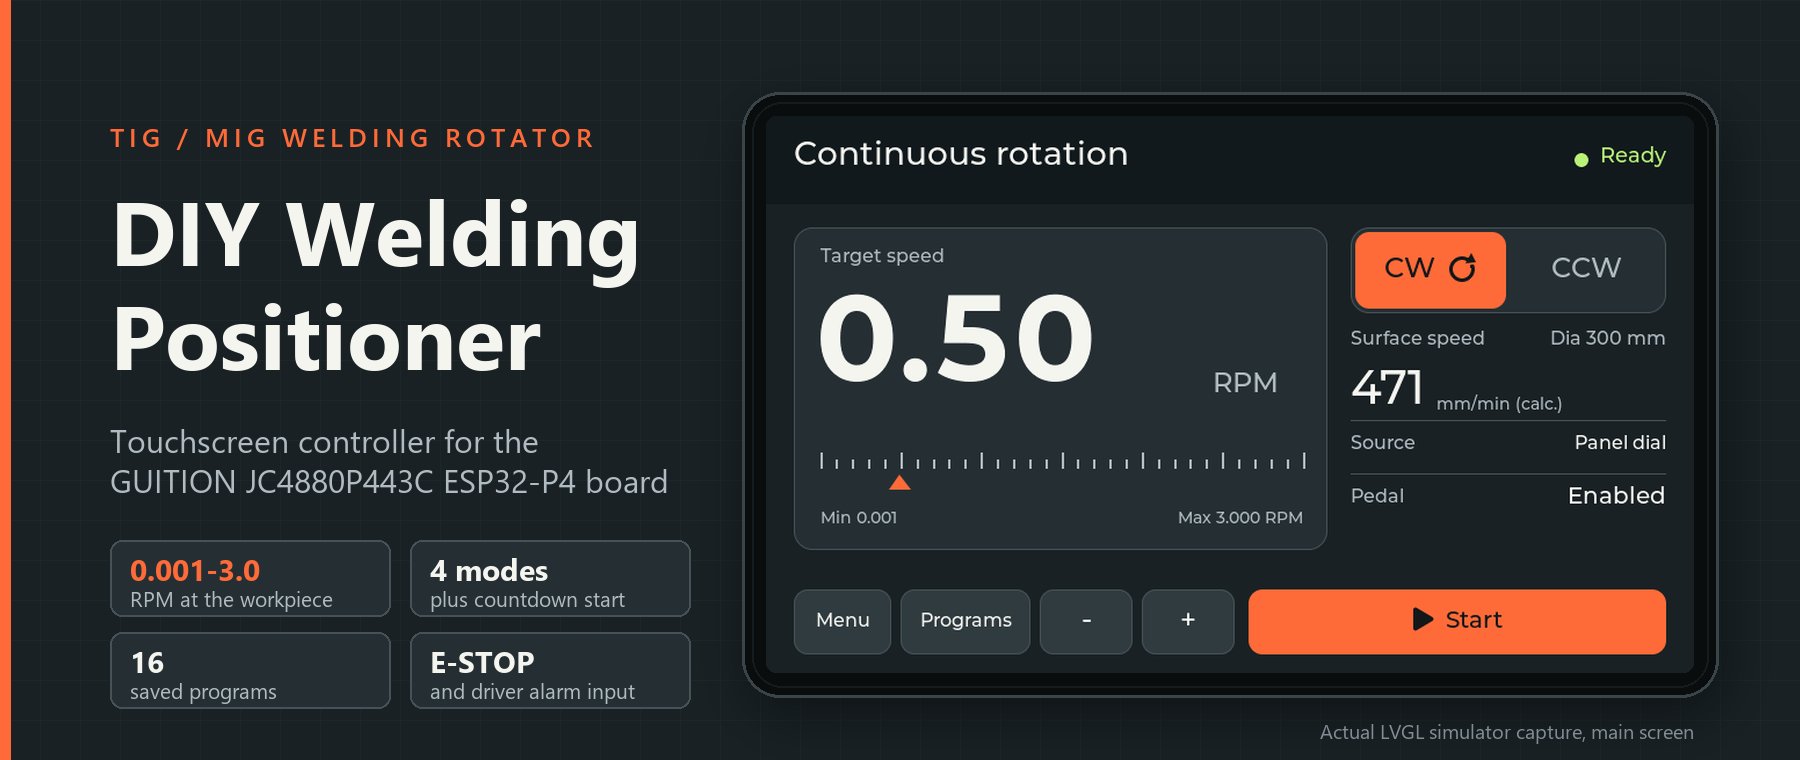
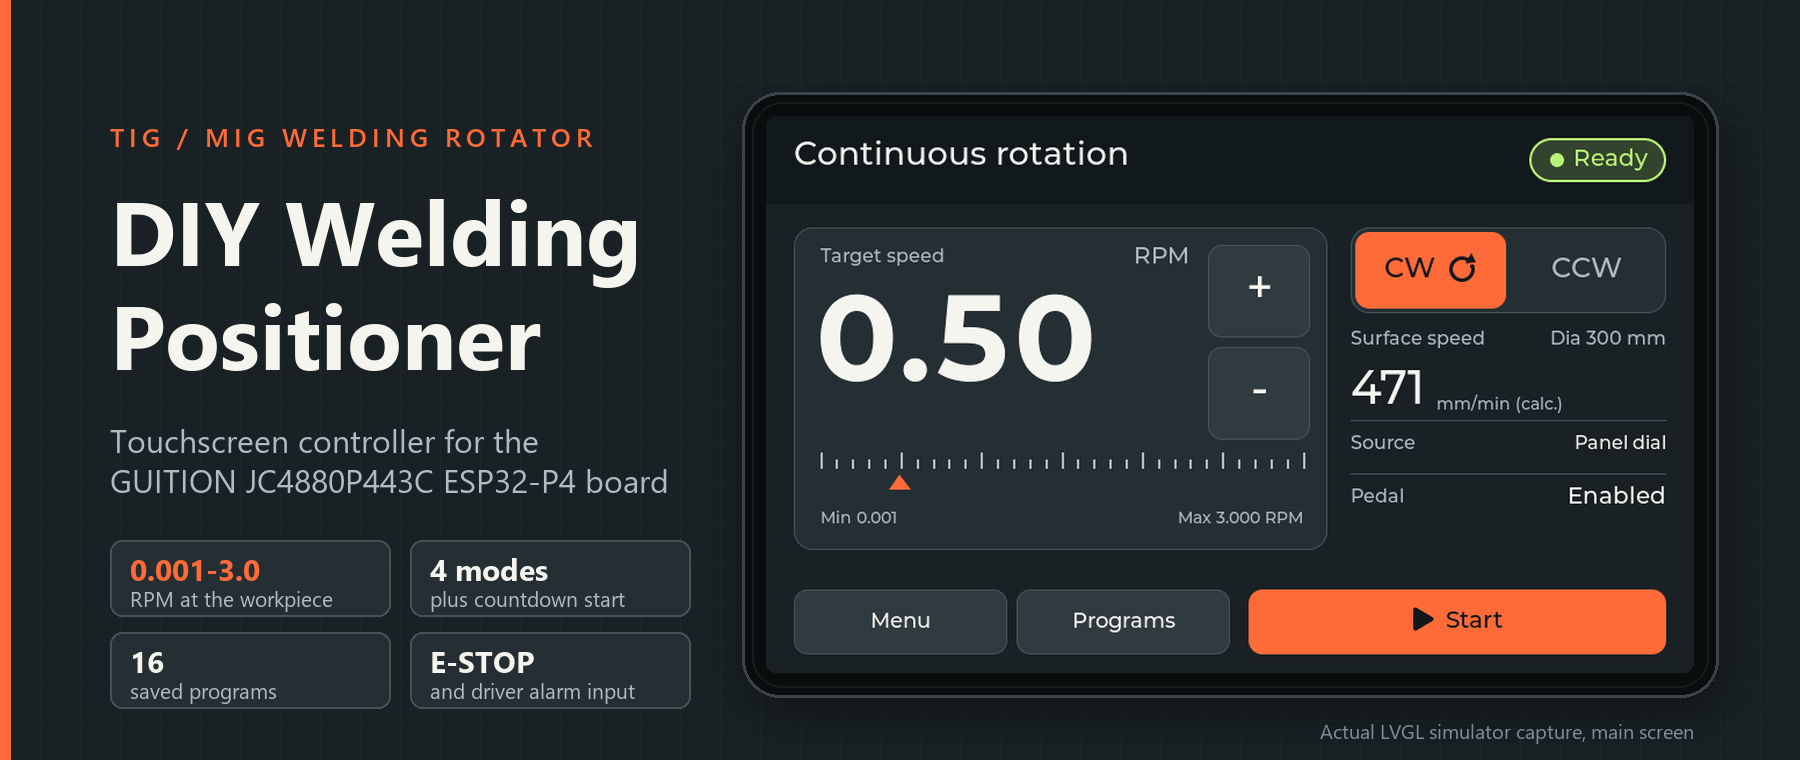
docs: update the README, hero image, roadmap and wiki for the unreleased source
- README: say that the screenshots show source ahead of v2.3.1, add
  "What changed since v2.3.1" with the fault screen and screen saver
  captures, note what the owner checked on the device on 2026-11-10,
  and how to build the unreleased source on Windows.
- Hero image: the embedded main-screen capture is the current one.
- Social preview: the PNG was a pre-V5 concept with wrong hardware
  facts (TB6600, 0.01-1.0 RPM, 199.5:1). It is rebuilt from the hero.
  The SVG facts are corrected.
- Roadmap: an Unreleased section with done and open items.
- Wiki home and getting started: source ahead of the release, fault
  screen wording, Save in Display settings.

diff --git a/README.md b/README.md
@@ -39,13 +39,15 @@ Touchscreen controller for a single-axis TIG/MIG welding rotator, built for the 
 > - **HF-start TIG:** put the controller, driver and motor PSU in the same grounded metal enclosure. See [TIG HF](#tig-hf).
 
 > [!NOTE]
-> **Tested by the owner.** The owner reported on 2026-11-04 that everything works on the assembled v2.3.0 machine, including TIG HF. The owner reported the v2.3.1 build working on the same machine the same day. Stop time is unmeasured. [Checks to run on your own build](docs/releases/v2.3.1.md#validation-and-hardware-status)
+> **Tested by the owner.** The owner reported on 2026-11-04 that everything works on the assembled v2.3.0 machine, including TIG HF. The owner reported the v2.3.1 build working on the same machine the same day. Stop time is unmeasured.
+>
+> **Source is ahead of v2.3.1.** The screenshots below show the current source, which has reworked screens and fixes that are not released yet. See [What changed since v2.3.1](#what-changed-since-v231). The downloads are still v2.3.1. [Checks to run on your own build](docs/releases/v2.3.1.md#validation-and-hardware-status)
 
 ## What it does
 
 <table>
 <tr>
-<td width="33%" valign="top"><img src="docs/images/ui_runtime_v5/01_MAIN.png" alt="Continuous screen"><br><b>Continuous</b><br><sub>Set speed with the pot, pedal or -/+. One Start/Stop button.</sub></td>
+<td width="33%" valign="top"><img src="docs/images/ui_runtime_v5/01_MAIN.png" alt="Continuous screen"><br><b>Continuous</b><br><sub>Set speed with the pot, pedal or -/+ beside the value. One Start/Stop button.</sub></td>
 <td width="33%" valign="top"><img src="docs/images/ui_runtime_v5/03_PULSE.png" alt="Pulse screen"><br><b>Pulse</b><br><sub>Rotate, pause, repeat for tack welds. The preview tracks the live cycle.</sub></td>
 <td width="33%" valign="top"><img src="docs/images/ui_runtime_v5/04_STEP.png" alt="Step screen"><br><b>Step</b><br><sub>Index by an exact angle, 45 to 360 degrees or a custom value.</sub></td>
 </tr>
@@ -64,11 +66,36 @@ Touchscreen controller for a single-axis TIG/MIG welding rotator, built for the 
 | 🎯 | **0.001-3.0 RPM** | At the workpiece, limited by geometry and calibration. The screen shows the effective range |
 | 💾 | **16 saved programs** | Speed, direction, diameter and mode settings |
 | 🎛 | **Pot, switch, pedal** | Panel potentiometer, direction switch and optional foot pedal |
-| 🛑 | **Supervision** | E-STOP input, driver alarm, UI and touch watch. Resetting a fault never starts rotation |
+| 🛑 | **Supervision** | E-STOP input, driver alarm, UI and touch watch. The fault screen says what to do next. Resetting a fault never starts rotation |
 | 🧭 | **Guided setup** | Setup wizard, calibration, diagnostics, USB-C live mirror and an [idle screen saver](docs/SCREEN_SAVER.md) |
 
 > [!TIP]
 > Single axis with no encoder: RPM and progress are calculated, so calibration needs a real measurement.
+
+## What changed since v2.3.1
+
+These changes are in the source and not in a release yet. Build from `master` to get them.
+
+| Area | Change |
+|---|---|
+| Supervision | A heartbeat stamped just after the supervisor read the clock no longer counts as 49 days old. This rare race could stop a weld with HMI STALE or PEDAL INPUT, or drop a held jog |
+| Fault screen | Leads with the next action, for example "Release the E-STOP button.", with the cause below. The banner is red while reset is blocked and amber when it is ready |
+| Main screen | - and + sit beside the speed value instead of next to Start. Steps are 0.001 RPM below 0.1 RPM |
+| Programs | The editors refuse a speed the motor cannot run at the program's diameter. The Available switches are full size |
+| Calibration | Named jog directions, a captioned diameter field, and an abandoned diameter no longer stays active |
+| Display settings | Back without Save restores brightness, appearance and accent |
+| Screen saver | States "Motor stopped" and shows the set speed and direction |
+| Status | The header status is a filled pill with larger text on every screen |
+
+<table>
+<tr>
+<td width="33%" valign="top"><img src="docs/images/ui_runtime_v5/ESTOP_ACTIVE.png" alt="Fault screen while E-STOP is pressed"><br><b>Fault, reset blocked</b><br><sub>Red banner and the next action.</sub></td>
+<td width="33%" valign="top"><img src="docs/images/ui_runtime_v5/ESTOP_RESET.png" alt="Fault screen after E-STOP is released"><br><b>Fault, ready to reset</b><br><sub>Amber banner once only the reset is missing.</sub></td>
+<td width="33%" valign="top"><img src="docs/images/ui_runtime_v5/SCREEN_SAVER.png" alt="Idle screen saver"><br><b>Screen saver</b><br><sub>Machine state and the set speed.</sub></td>
+</tr>
+</table>
+
+The owner flashed this source on 2026-11-10 and confirmed that it boots and that the new screens, the fault screen and the screen saver display correctly. Motion, pedal and calibration were not re-tested on it. [Full list](CHANGELOG.md)
 
 ## Parts
 
@@ -121,6 +148,8 @@ git checkout v2.3.1
 pio run
 ```
 
+Leave out `git checkout v2.3.1` to build the unreleased source. On Windows, run `pio` from PowerShell: in Git Bash the final image step can fail.
+
 ## First run
 
 New installations open the **Setup Wizard**, and valid existing settings are kept. Run it again from <kbd>Settings</kbd> › <kbd>Setup wizard</kbd>.
@@ -145,7 +174,7 @@ The wizard does not measure stop time or certify wiring. [Every wizard screen](d
 
 <p><img src="https://img.shields.io/badge/native%20tests-492%20passing-2e7d32?style=flat-square" alt="native tests: 492 passing"> <img src="https://img.shields.io/badge/simulator-Linux%20%2B%20Windows-2e7d32?style=flat-square" alt="simulator: Linux + Windows"> <img src="https://img.shields.io/badge/layout%20audit-0%20failures-2e7d32?style=flat-square" alt="layout audit: 0 failures"> <img src="https://img.shields.io/badge/firmware%20builds-release%20·%20debug%20·%20mirror-2e7d32?style=flat-square" alt="firmware builds: release · debug · mirror"> <img src="https://img.shields.io/badge/owner%20tested-v2.3.1-ff6b38?style=flat-square" alt="owner tested: v2.3.1"> <img src="https://img.shields.io/badge/stop%20time-not%20measured-8a3b3b?style=flat-square" alt="stop time: not measured"></p>
 
-Every commit runs **492 native tests**, packaging tests, Linux and Windows simulator self-tests, a layout audit and three firmware builds. Release binaries come from the validated master commit. The owner reported v2.3.0 tested on the assembled machine on 2026-11-04. TIG HF works on the owner's machine. The owner reported the v2.3.1 build working on the same machine the same day. Stop time has not been measured. [v2.3.1 status](docs/releases/v2.3.1.md#validation-and-hardware-status) · [Changelog](CHANGELOG.md)
+Every commit runs **492 native tests**, packaging tests, Linux and Windows simulator self-tests, a layout audit and three firmware builds. Release binaries come from the validated master commit. The owner reported v2.3.0 tested on the assembled machine on 2026-11-04. TIG HF works on the owner's machine. The owner reported the v2.3.1 build working on the same machine the same day. The unreleased source was flashed on 2026-11-10 and its screens were checked; motion was not re-tested on it. Stop time has not been measured. [v2.3.1 status](docs/releases/v2.3.1.md#validation-and-hardware-status) · [Changelog](CHANGELOG.md)
 
 ## Documentation and contributions
 

diff --git a/wiki/Roadmap.md b/wiki/Roadmap.md
@@ -4,6 +4,7 @@
 
 | Release | Date | Summary | Status |
 |---------|------|---------|--------|
+| Unreleased | - | Timestamp race fix, screen-logic fixes, reworked screens, fault screen and screen saver | In source |
 | v2.3.1 | 2026-11-04 | Operator feedback and test fixes | Current release |
 | v2.3.0 | 2026-11-04 | Safety supervision and audit fixes | Released |
 | v2.2.0 | 2026-10-03 | Idle screen saver and UI refinements | Released |
@@ -15,6 +16,23 @@
 | v2.0.0 to v2.0.6 | 2026-04-03 to 2026-04-26 | Stability, diagnostics, operator UX | Released |
 
 Open items are listed under [Next](#next).
+
+## Unreleased
+
+In the source after v2.3.1, not in a release yet.
+
+- [x] Heartbeat, pedal-sample and jog-lease checks accept a stamp written just after the clock was read
+- [x] Boot halts when the LVGL tick timer cannot start
+- [x] Fault screen leads with the next action; red while reset is blocked, amber when ready
+- [x] Screen saver states "Motor stopped" and shows the set speed and direction
+- [x] Header status pill, main - / + beside the speed, full-size Available switches
+- [x] Program editors enforce the minimum speed for the program's diameter
+- [x] Calibration: named jog directions, captioned diameter field, diameter draft restored on leave
+- [x] Display settings: Back without Save restores brightness, appearance and accent
+- [ ] Pulse screen reads the machine target speed when opened
+- [ ] Direction control in the Pulse program editor
+- [ ] Cancel during a pending program save
+- [ ] Motion, pedal and calibration re-tested on the machine with this source
 
 ## v2.3.1 - Current Release
 

diff --git a/wiki/Getting-Started.md b/wiki/Getting-Started.md
@@ -105,11 +105,11 @@ For simulator-only UI review:
 - [ ] Test main RPM +/− while idle; confirm controls are blocked during motion
 - [ ] Check physical direction-switch priority and idle CW/CCW selection
 - [ ] Press <kbd>Stop</kbd> — motor decelerates and stops
-- [ ] Check E-STOP driver disable and red overlay; measure physical stopping response
-- [ ] Clear fault, press <kbd>RESET TO IDLE</kbd>, then use a separate <kbd>Start</kbd>
+- [ ] Check E-STOP driver disable and the red fault screen with its "What to do" line; measure physical stopping response
+- [ ] Clear fault and watch the banner turn amber, press <kbd>RESET TO IDLE</kbd>, then use a separate <kbd>Start</kbd>
 - [ ] Try each mode: Jog, Pulse, Step, Countdown
 - [ ] Navigate to <kbd>Settings</kbd> › <kbd>Motor configuration</kbd> — enable direction switch
-- [ ] Navigate to <kbd>Settings</kbd> › <kbd>Display settings</kbd> — adjust <kbd>Brightness</kbd>, optional <kbd>Appearance</kbd> (dark/light), and <kbd>Accent color</kbd>
+- [ ] Navigate to <kbd>Settings</kbd> › <kbd>Display settings</kbd> — adjust <kbd>Brightness</kbd>, optional <kbd>Appearance</kbd> (dark/light), and <kbd>Accent color</kbd>, then <kbd>Save</kbd> (Back without Save restores the saved values)
 
 ## Configuration
 

diff --git a/wiki/Home.md b/wiki/Home.md
@@ -20,6 +20,8 @@ Actual LVGL simulator capture with example data. Main RPM +/− controls sit bes
 
 > [!NOTE]
 > Release **v2.3.1** is the current firmware identifier (**`FW_VERSION`**). It explains blocked program starts and REBOOT, keeps the Step keypad open on an invalid entry, stops Jog changing the manual direction and names every fault on the overlay. The owner reported them working on the assembled machine on 2026-11-04.
+>
+> The source is ahead of v2.3.1: reworked screens, a fault screen that leads with the next action, a screen saver that shows the machine state, and a heartbeat timestamp fix. The capture above shows that source. See the repository changelog under Unreleased.
 
 v2.3.0 adds UI, touch and pot supervision, visible crash and storage faults, per-diameter RPM limits and settings for roller diameter and gear ratio. The owner reported it tested on the assembled machine on 2026-11-04, including TIG HF.
 
